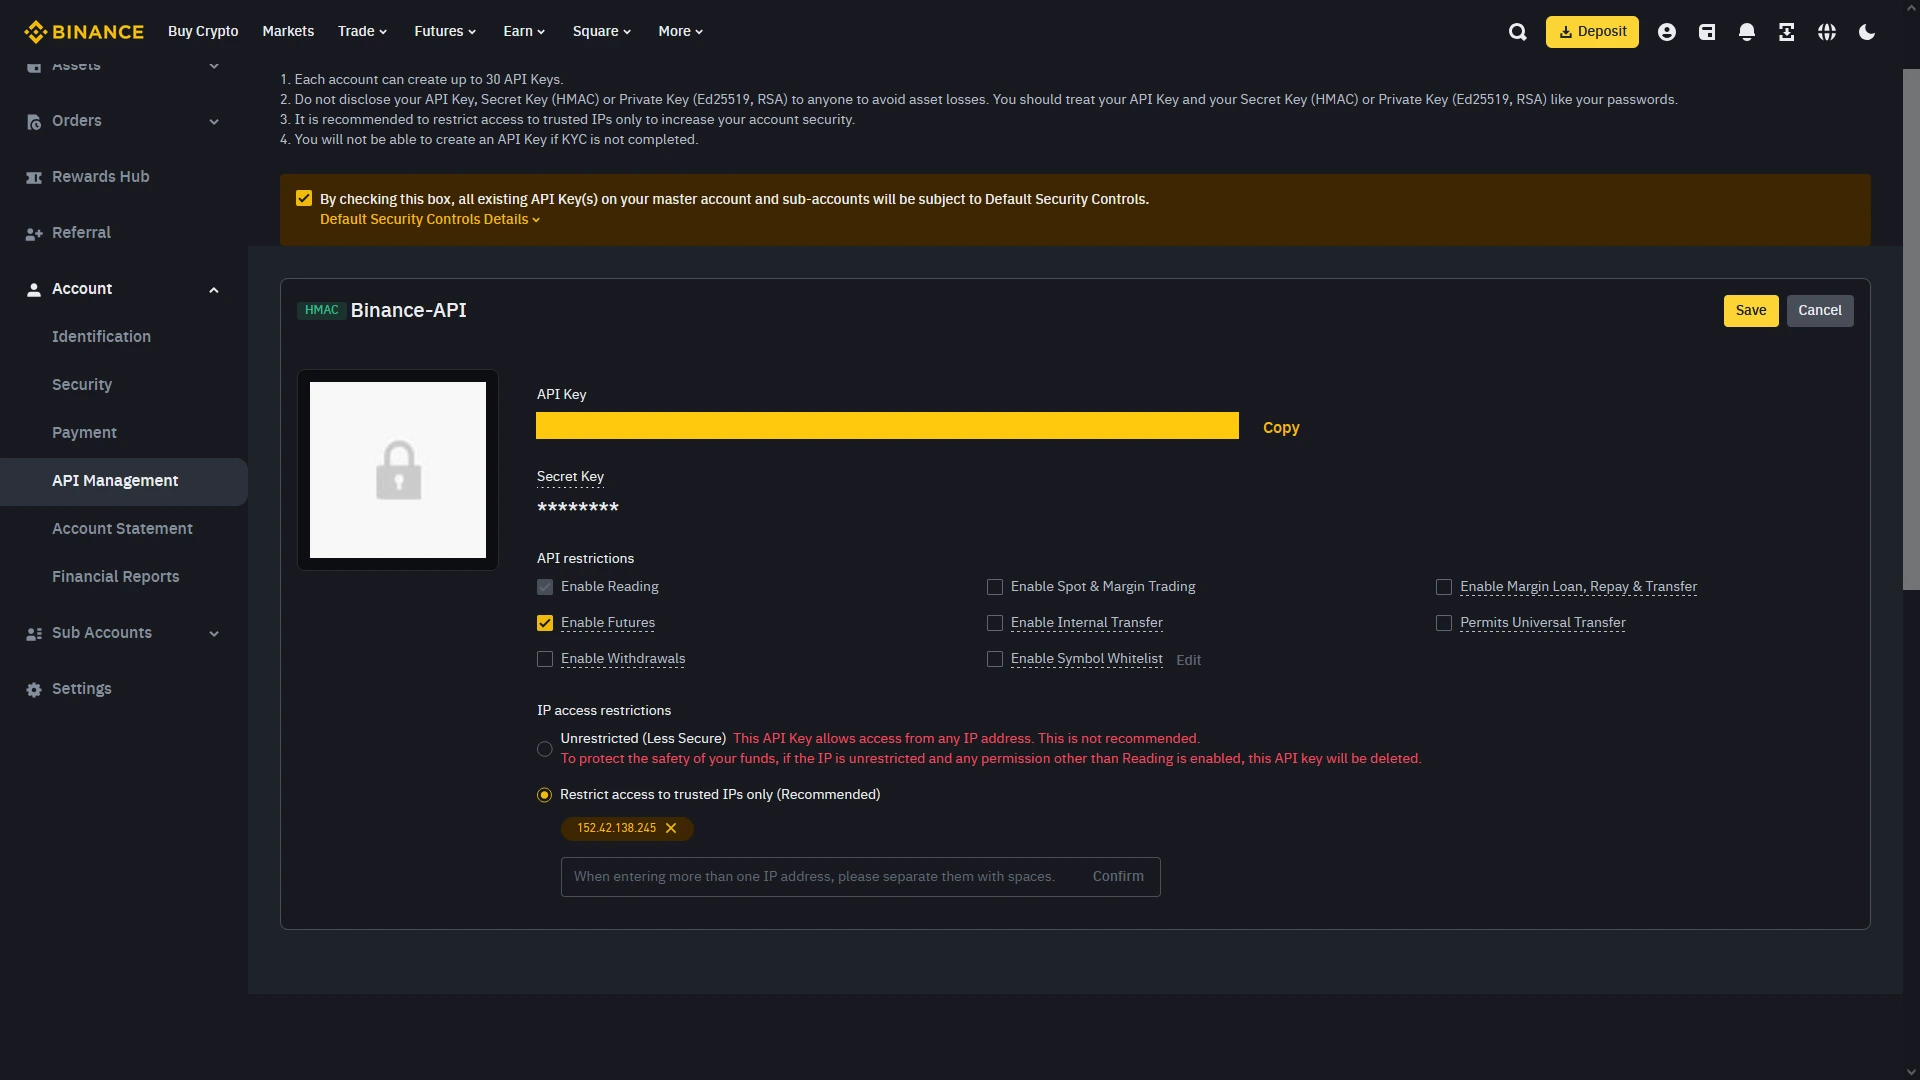
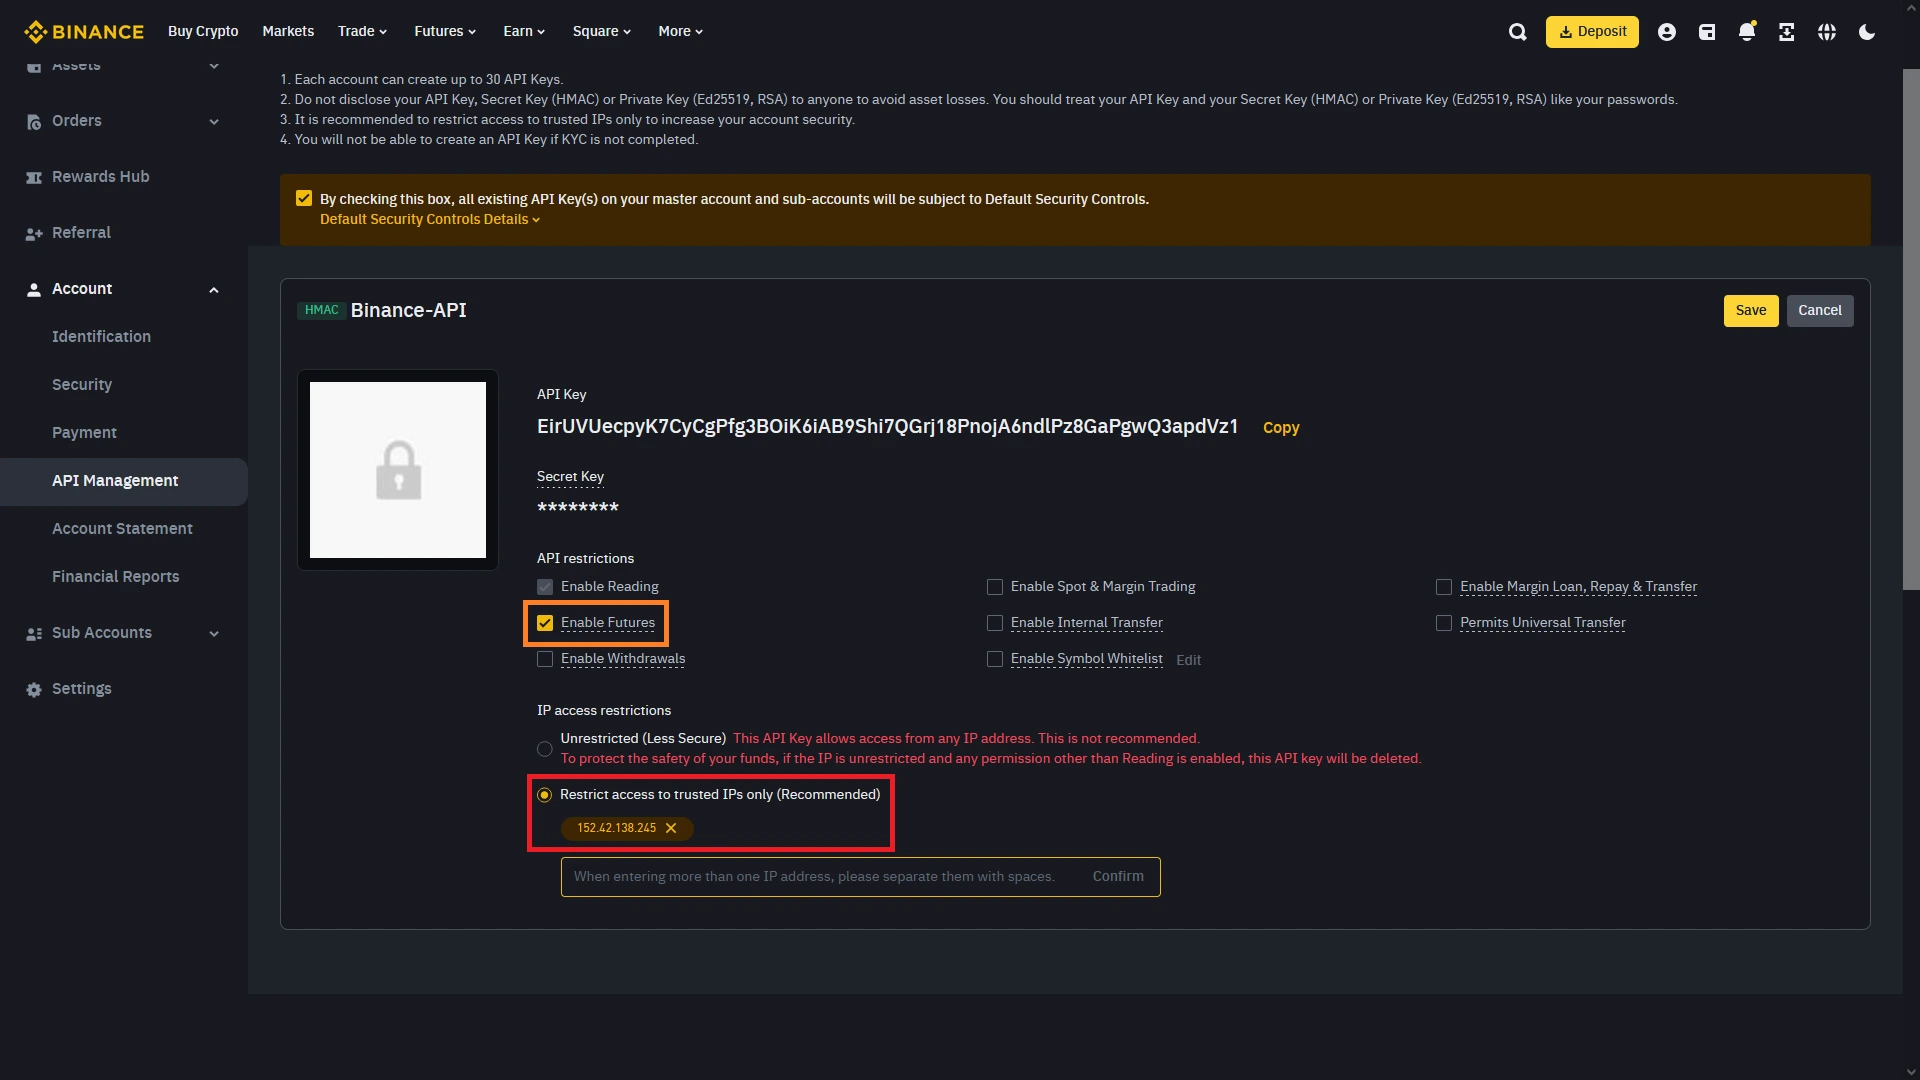
updated getting started manual

Changed region(s): [[0.2812, 0.3667, 0.6562, 0.4278], [0.25, 0.7028, 0.4688, 0.7944], [0.25, 0.55, 0.375, 0.6111]]

diff --git a/trader.html b/trader.html
@@ -593,9 +593,9 @@
                                 <br><br>
                                 <p>_______________________________________________________________________________________________________________________________________</p>
                                 <br>
-                                <p>Select the option “Restrict access to trusted IPs only (Recommended)”.</p>
-                                <p>Type the following IP address: <b>152.42.138.245</b></p>
-                                <p>Check the box that says “Enable Futures”.</p>
+                                <p>Select the option “Restrict access to trusted IPs only (Recommended)” highlighted by the red box.</p>
+                                <p>Type the following IP address: <b>152.42.138.245</b> in the yellow box</p>
+                                <p>Check the box that says Enable Futures” highlighted by the orange box.</p>
                                 <p>Click Save and that's it, the API is set.</p>
                                 <img src="../static/images/binance5.webp" alt="Image" class="getting-started-image">
                                 <br><br>
@@ -654,7 +654,15 @@
                                 <p>If everything is set up correctly you should now be able to start copy-trading.</p>
                                 <p>Select the Copy-Trading sidebar tab.</p>
                                 <p>Click the button Copy-Trading to start copy-trading.</p>
-
+                                <img src="../static/images/ctf5.webp" alt="Image" class="getting-started-image">
+                                <br><br>
+                                <p>_______________________________________________________________________________________________________________________________________</p>
+                                <br>
+                                <p>If you have an active copy-trading bot you'll see it in the "Active Bots" section.</p>
+                                <img src="../static/images/ctf6.webp" alt="Image" class="getting-started-image">
+                                <br><br>
+                                <p>_______________________________________________________________________________________________________________________________________</p>
+                                <br>
                                 <p>If you want to copy-trade other coins, just follow these same steps and adjust the leverage to match the corresponding CTF bot leverage.</p>
                                 <p>Don't forget you'll have to transfer funds from your Spot wallet to your Futures wallet.</p>
                                 <p>If you need help setting up your Futures account you can check the following guide:</p>
